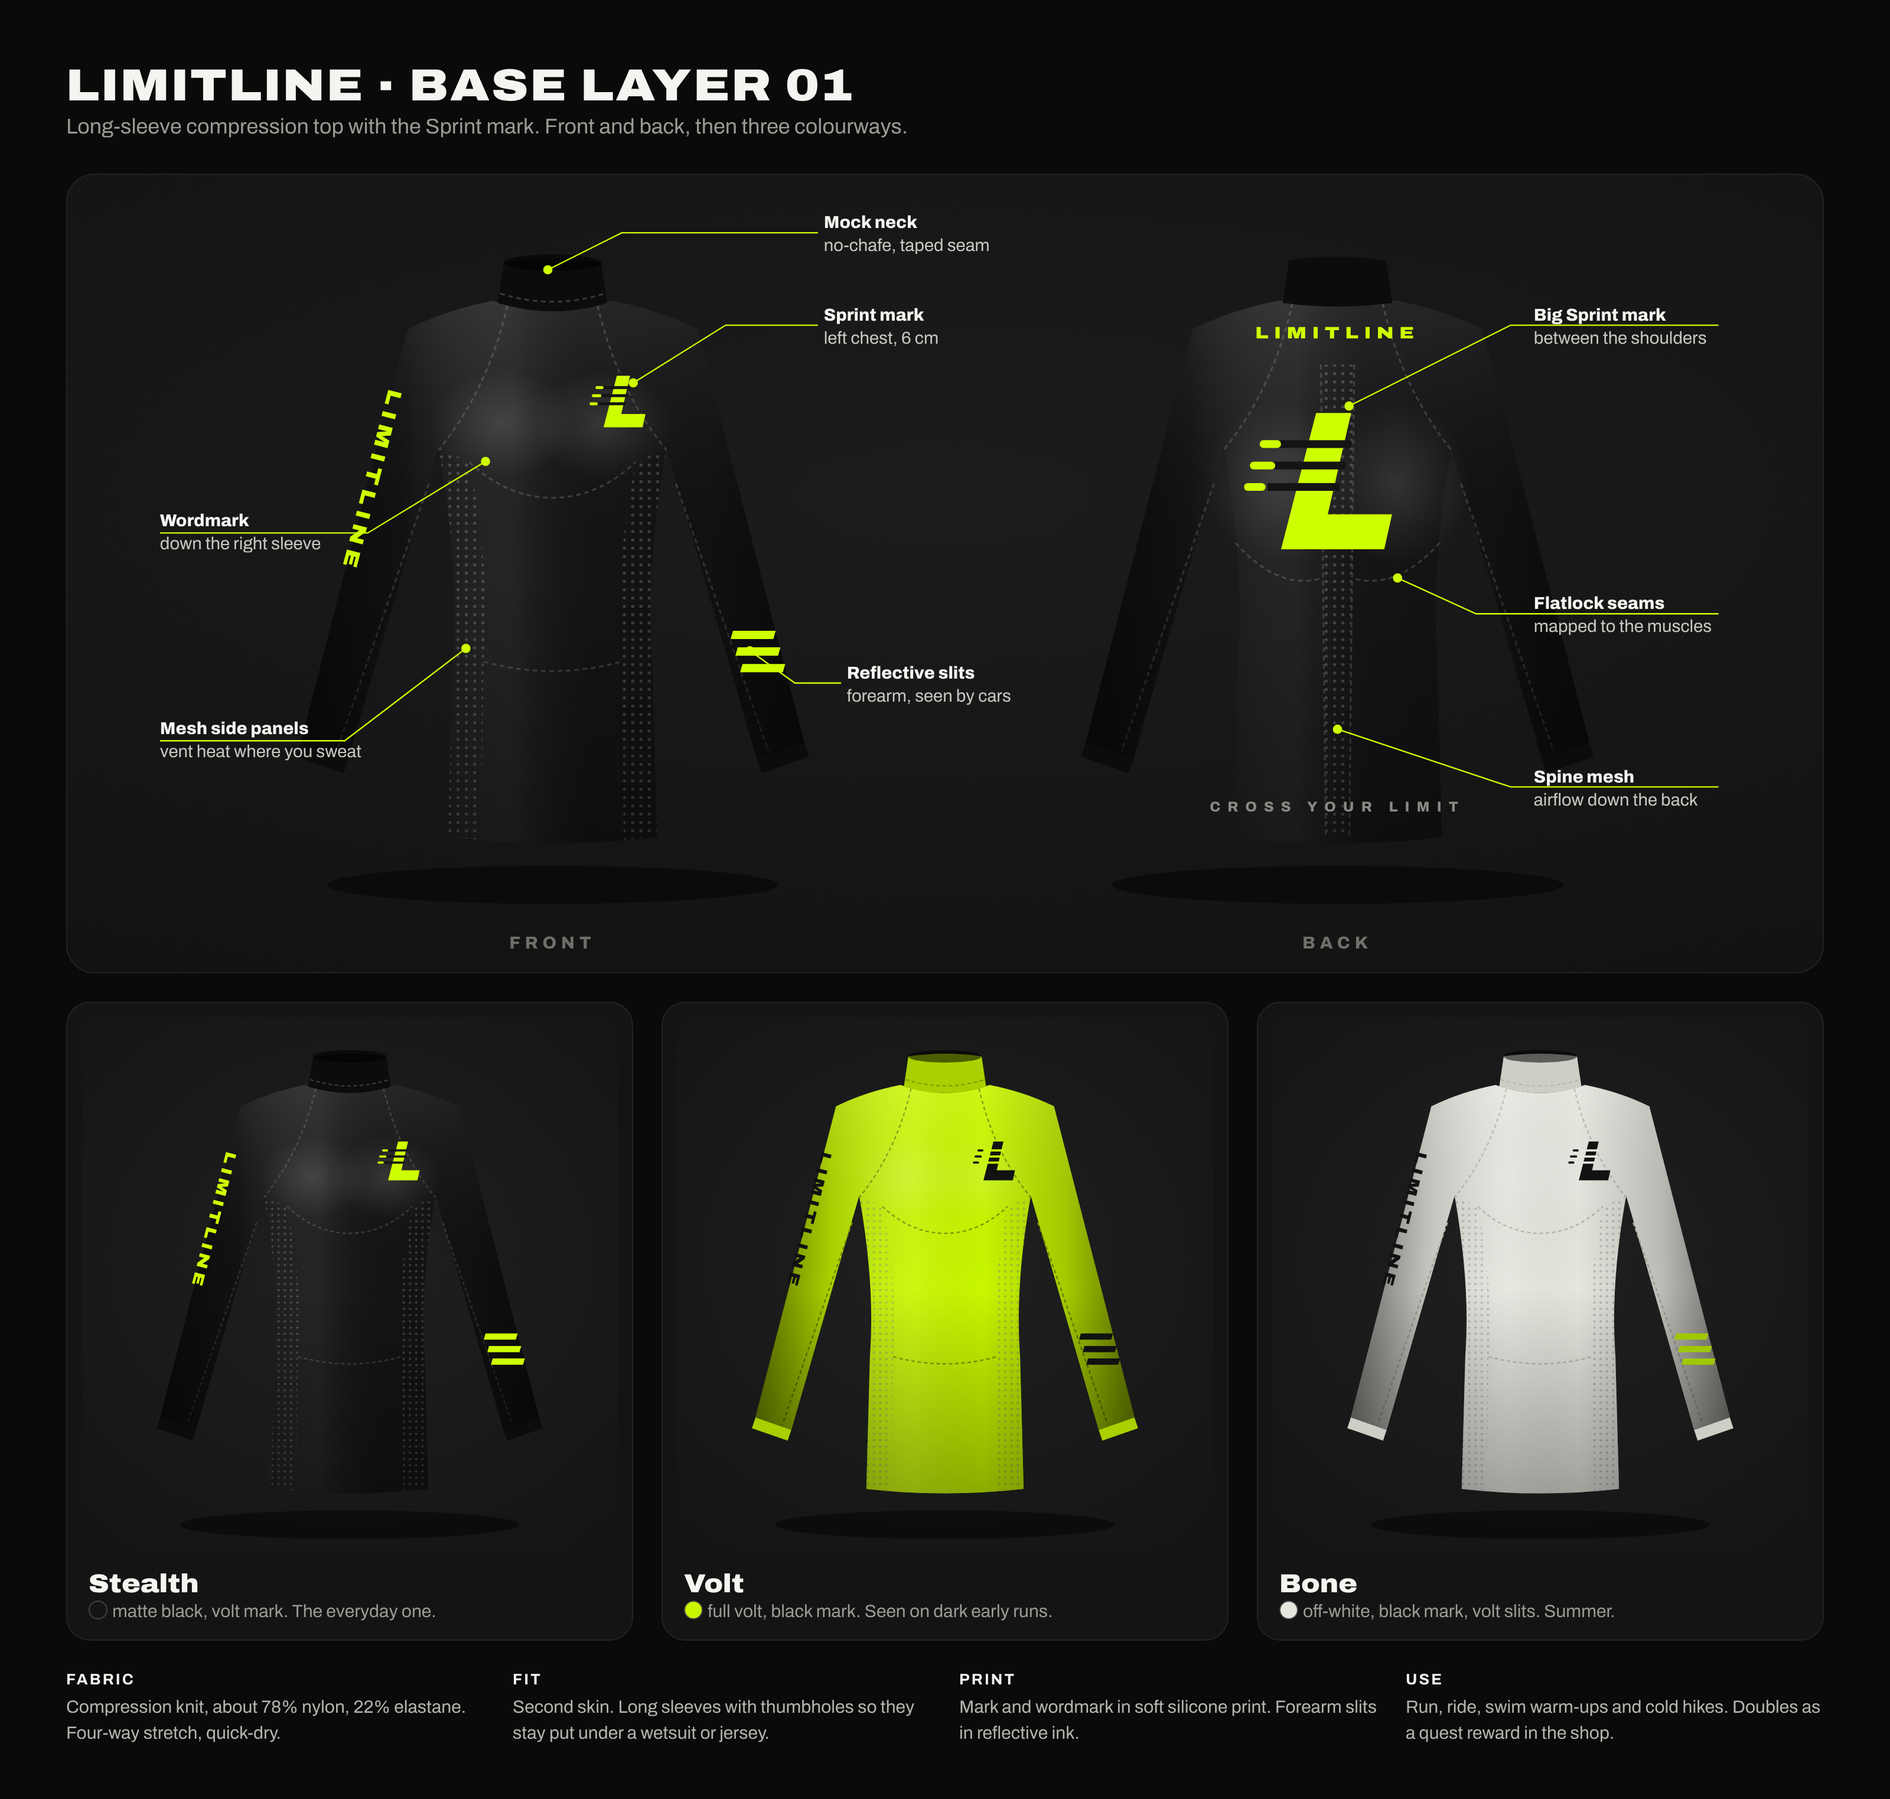
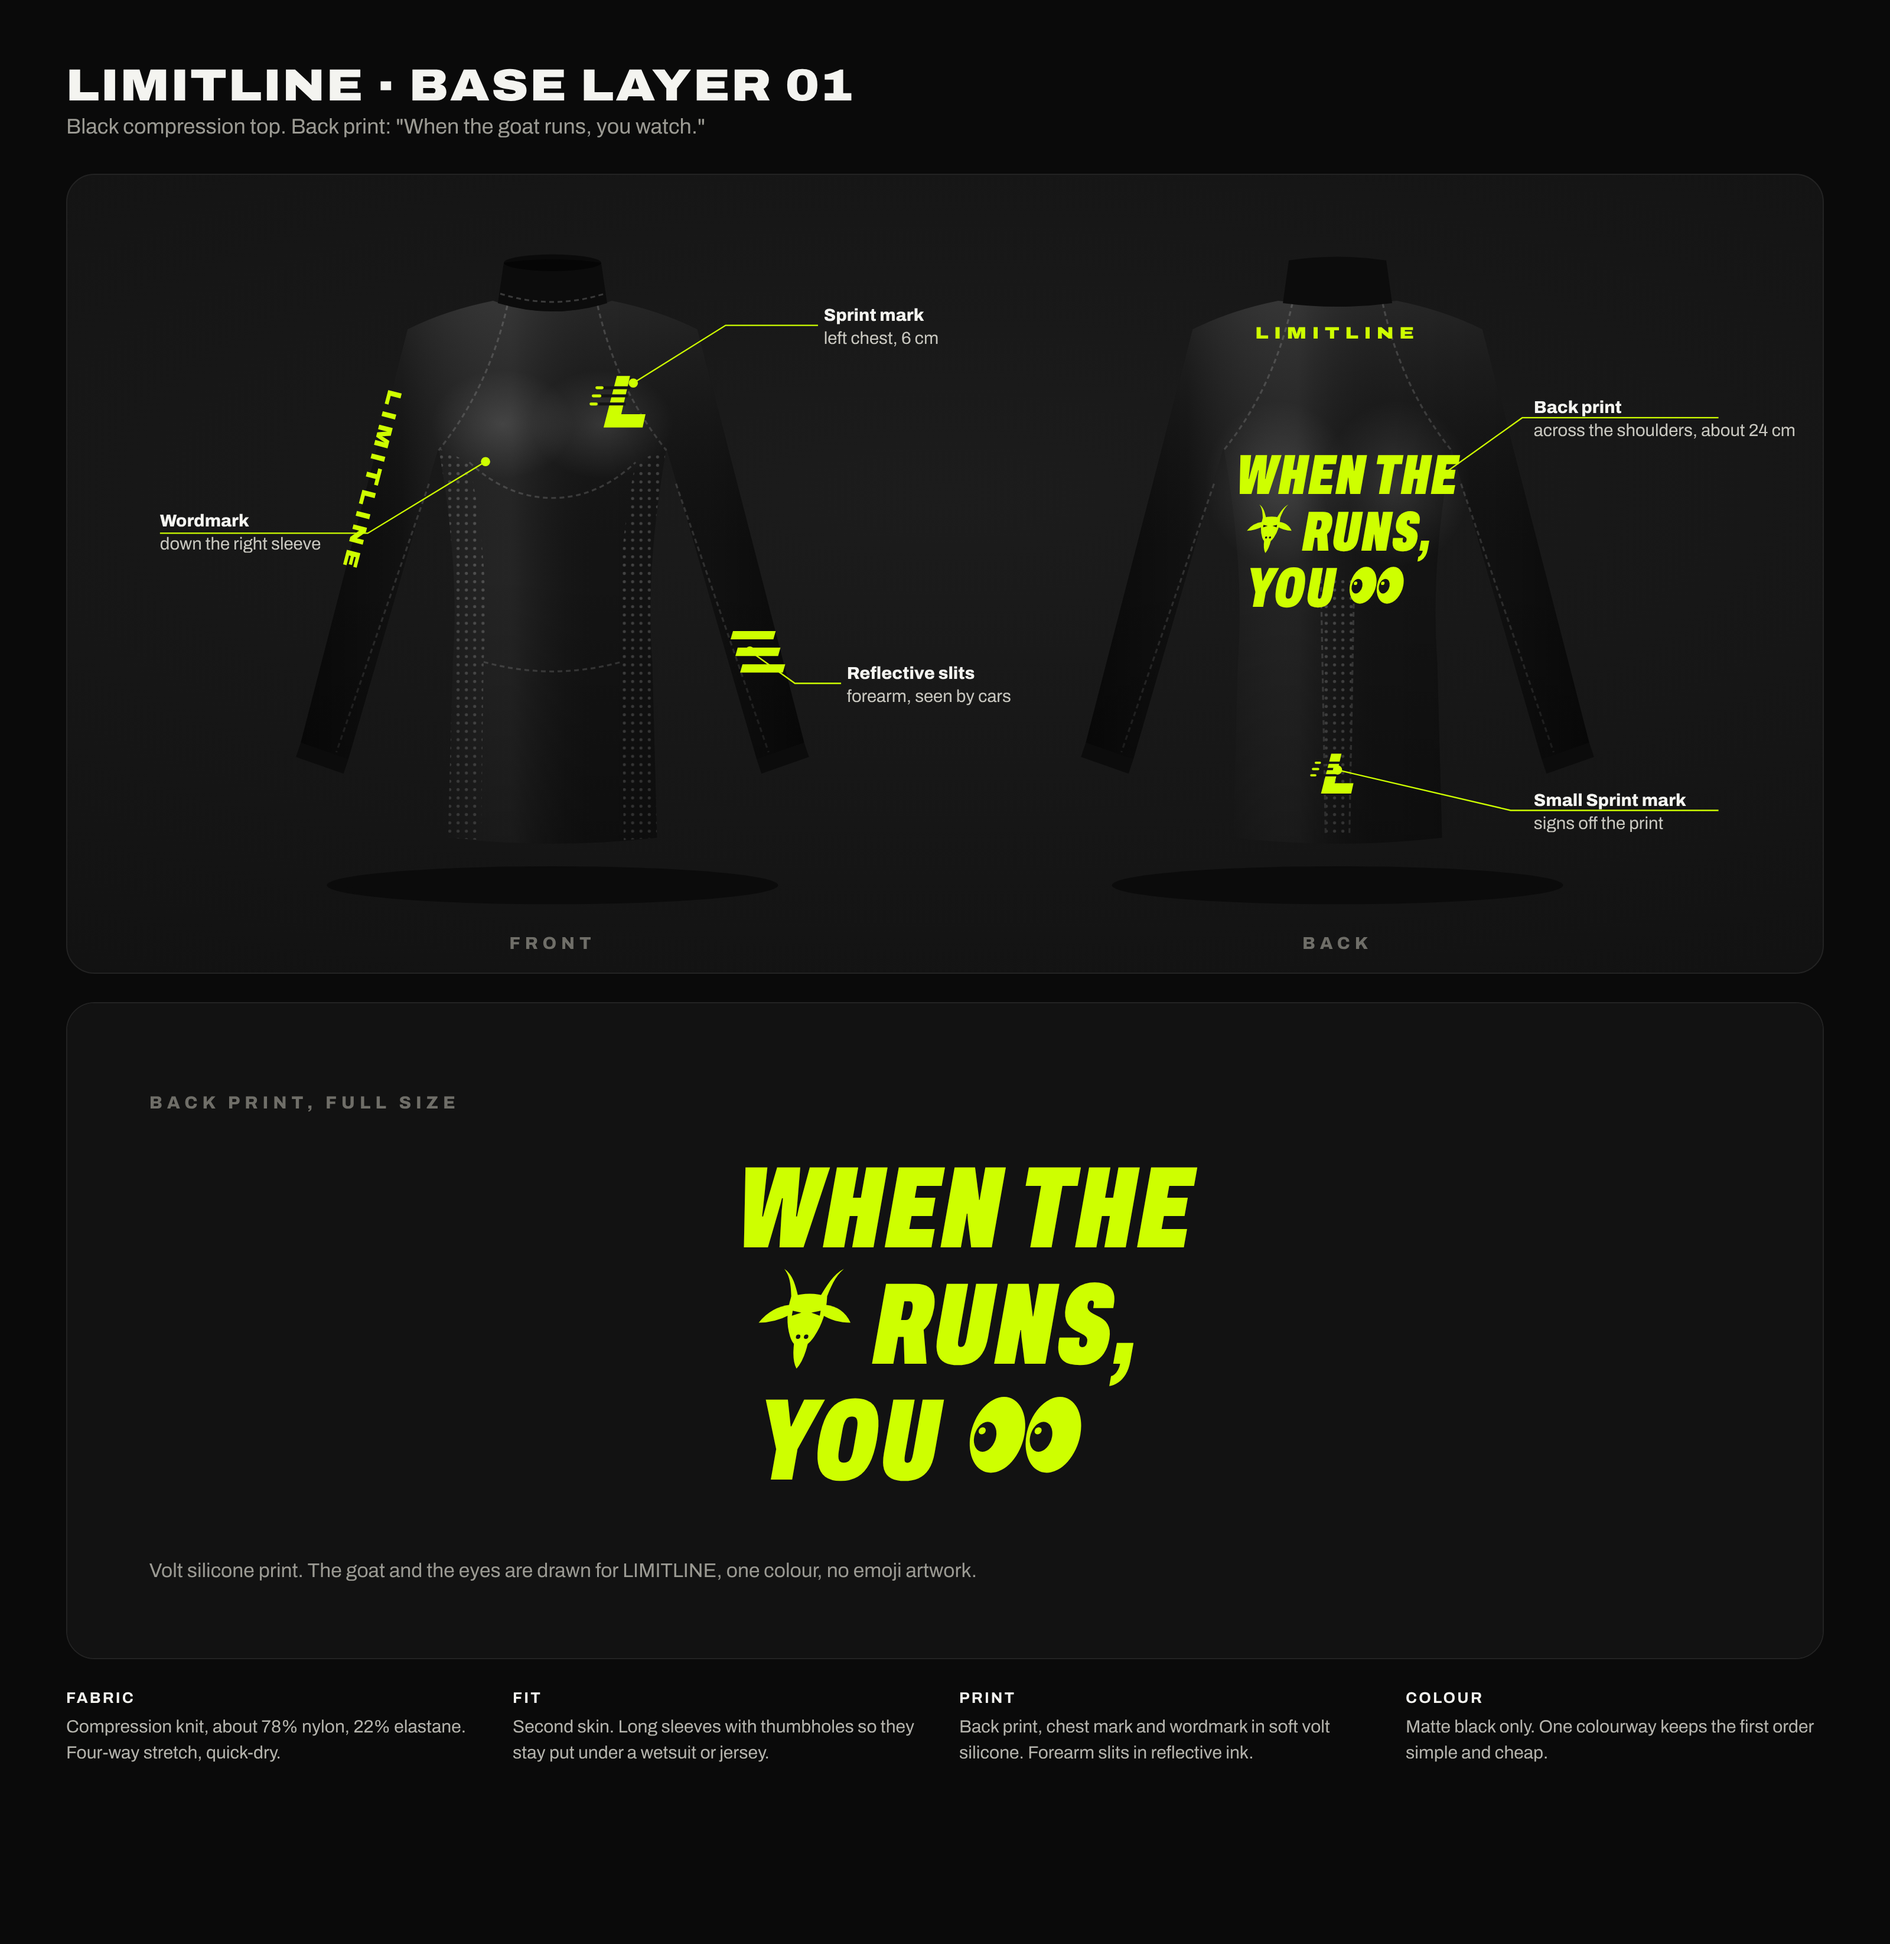
Base Layer 01: black only, with the goat back print
The top is now matte black only. The back reads "WHEN THE [goat] RUNS,
YOU [eyes]" in slanted condensed volt type, with a small Sprint mark
under it. The goat and the eyes are drawn for LIMITLINE as one-colour
icons, not emoji artwork, so they can be printed and sold.

Claude-Session: https://claude.ai/code/session_01BXru34w1oLkypgVg3jt9hC

diff --git a/marketing/merch/base-layer-01.html b/marketing/merch/base-layer-01.html
@@ -19,6 +19,7 @@ h1{font-weight:900;font-stretch:115%;letter-spacing:.04em;font-size:38px;margin:
 .stealth{--body:#141414;--seam:#3a3a3a;--logo:#ceff00;--accent:#ceff00;--collar:#0c0c0c;--txt:#8a8a84}
 .volt{--body:#c8f700;--seam:#7f9c00;--logo:#121212;--accent:#121212;--collar:#a9d000;--txt:#3d4a00}
 .bone{--body:#e6e5de;--seam:#b9b8b0;--logo:#121212;--accent:#9fc800;--collar:#cfcec6;--txt:#6f6e68}
+.detail{margin-top:24px;border:1px solid #232323;border-radius:24px;overflow:hidden}.detail svg{display:block;width:100%}
 </style></head><body>
 <svg width="0" height="0" style="position:absolute"><defs>
  <!-- the Sprint mark (200 box); slits take the fabric colour -->
@@ -71,32 +72,50 @@ h1{font-weight:900;font-stretch:115%;letter-spacing:.04em;font-size:38px;margin:
   <text transform="translate(162,170) rotate(104.5)" fill="var(--logo)" font-family="Archivo" font-weight="900" font-size="17" letter-spacing="5" style="font-stretch:125%">LIMITLINE</text>
  </symbol>
 
+ 
+ <!-- goat: front-facing head, swept horns, beard. One colour; eyes and nostrils cut out in the fabric colour -->
+ <symbol id="goat" viewBox="0 0 100 100">
+  <!-- horns rise and sweep back, ears droop, long face, goatee -->
+  <path fill="var(--logo)" d="M40,30 C34,16 30,6 20,0 C28,8 30,18 33,32 Z"/>
+  <path fill="var(--logo)" d="M60,30 C66,16 70,6 80,0 C72,8 70,18 67,32 Z"/>
+  <g fill="var(--logo)">
+   <path d="M33,36 Q14,38 4,54 Q20,54 34,46 Z"/><path d="M67,36 Q86,38 96,54 Q80,54 66,46 Z"/>
+   <path d="M32,28 Q50,22 68,28 Q71,50 62,68 Q57,78 50,78 Q43,78 38,68 Q29,50 32,28 Z"/>
+   <path d="M43,74 Q44,92 50,100 Q56,92 57,74 Z"/>
+  </g>
+  <g fill="var(--body)"><path d="M36,42 L45,44 L36,47 Z"/><path d="M64,42 L55,44 L64,47 Z"/><circle cx="46" cy="68" r="2.2"/><circle cx="54" cy="68" r="2.2"/></g>
+ </symbol>
+ <!-- eyes: two eyes glancing sideways -->
+ <symbol id="eyes" viewBox="0 0 120 100">
+  <g fill="var(--logo)"><ellipse cx="32" cy="50" rx="27" ry="38"/><ellipse cx="88" cy="50" rx="27" ry="38"/></g>
+  <g fill="var(--body)"><ellipse cx="20" cy="52" rx="11" ry="15"/><ellipse cx="76" cy="52" rx="11" ry="15"/></g>
+  <g fill="var(--logo)"><circle cx="16" cy="46" r="3.5"/><circle cx="72" cy="46" r="3.5"/></g>
+ </symbol>
+ <!-- the back print, laid out by the script below so the icons sit inline with the words -->
+ <symbol id="print" viewBox="0 0 300 300" overflow="visible"><g id="printg"></g></symbol>
+
  <!-- BACK -->
  <symbol id="back" viewBox="0 0 600 700">
   <ellipse cx="300" cy="588" rx="190" ry="16" fill="#000" opacity=".45"/>
   <use href="#bbody" fill="var(--body)"/>
-  <!-- spine mesh panel -->
-  <path d="M286,150 L314,150 L310,546 L290,546 Z" fill="url(#mesh)"/>
+  <path d="M286,330 L314,330 L310,546 L290,546 Z" fill="url(#mesh)"/>
   <g fill="none" stroke="var(--seam)" stroke-width="1.6" stroke-dasharray="4 3">
    <path d="M262,98 Q246,170 204,222"/><path d="M338,98 Q354,170 396,222"/>
-   <path d="M286,150 L290,546"/><path d="M314,150 L310,546"/>
-   <path d="M214,300 Q250,340 286,330"/><path d="M386,300 Q350,340 314,330"/>
+   <path d="M286,330 L290,546"/><path d="M314,330 L310,546"/>
    <path d="M196,250 L118,476"/><path d="M404,250 L482,476"/>
   </g>
   <ellipse cx="250" cy="250" rx="62" ry="70" fill="url(#pec)"/><ellipse cx="350" cy="250" rx="62" ry="70" fill="url(#pec)"/>
   <use href="#bbody" fill="url(#shadeH)"/><use href="#bbody" fill="url(#shadeV)"/>
   <path d="M254,98 L259,62 Q300,56 341,62 L346,98 Q300,104 254,98 Z" fill="var(--collar)"/>
-  <!-- small wordmark under the collar, big mark between the shoulders, motto at the hem -->
   <text x="300" y="128" text-anchor="middle" fill="var(--logo)" font-family="Archivo" font-weight="900" font-size="14" letter-spacing="5" style="font-stretch:125%">LIMITLINE</text>
-  <use href="#sprint" x="218" y="166" width="164" height="164"/>
-  <text x="300" y="526" text-anchor="middle" fill="var(--txt)" font-family="Archivo" font-weight="800" font-size="12" letter-spacing="6">CROSS YOUR LIMIT</text>
+  <use href="#print" x="185" y="178" width="230" height="230"/>
+  <use href="#sprint" x="276" y="470" width="48" height="48"/>
   <path d="M88,468 L128,482 L124,494 L84,480 Z" fill="var(--collar)"/><path d="M512,468 L472,482 L476,494 L516,480 Z" fill="var(--collar)"/>
  </symbol>
 </defs></svg>
 
 <h1>LIMITLINE · BASE LAYER 01</h1>
-<p class="sub">Long-sleeve compression top with the Sprint mark. Front and back, then three colourways.</p>
-
+<p class="sub">Black compression top. Back print: "When the goat runs, you watch."</p>
 <div class="hero stealth">
 <svg viewBox="0 0 1500 680">
  <use href="#front" x="100" y="0" width="620" height="720"/>
@@ -104,38 +123,55 @@ h1{font-weight:900;font-stretch:115%;letter-spacing:.04em;font-size:38px;margin:
  <g font-family="Archivo" font-size="15" fill="#c9c8c0">
   <text x="410" y="660" text-anchor="middle" font-weight="800" letter-spacing="4" fill="#6f6e68">FRONT</text>
   <text x="1090" y="660" text-anchor="middle" font-weight="800" letter-spacing="4" fill="#6f6e68">BACK</text>
-  <!-- callouts -->
-  <g stroke="#ceff00" stroke-width="1.2" fill="none">
-   <path d="M480,170 L560,120 H640"/><path d="M406,72 L470,40 H640"/><path d="M581,402 L620,430 H660"/>
-   <path d="M352,238 L250,300 H70"/><path d="M335,400 L230,480 H70"/>
-   <path d="M1100,190 L1240,120 H1420"/><path d="M1090,470 L1240,520 H1420"/><path d="M1142,339 L1210,370 H1420"/>
-  </g>
-  <g fill="#ceff00"><circle cx="480" cy="170" r="4"/><circle cx="406" cy="72" r="4"/><circle cx="581" cy="402" r="4"/><circle cx="352" cy="238" r="4"/><circle cx="335" cy="400" r="4"/><circle cx="1100" cy="190" r="4"/><circle cx="1090" cy="470" r="4"/><circle cx="1142" cy="339" r="4"/></g>
+  <g stroke="#ceff00" stroke-width="1.2" fill="none"><path d="M480,170 L560,120 H640"/><path d="M581,402 L620,430 H660"/><path d="M352,238 L250,300 H70"/><path d="M1180,250 L1250,200 H1420"/><path d="M1090,505 L1240,540 H1420"/></g>
+  <g fill="#ceff00"><circle cx="480" cy="170" r="4"/><circle cx="581" cy="402" r="4"/><circle cx="352" cy="238" r="4"/><circle cx="1180" cy="250" r="4"/><circle cx="1090" cy="505" r="4"/></g>
   <text x="645" y="116" font-weight="800" fill="#f4f4f0">Sprint mark</text><text x="645" y="136">left chest, 6 cm</text>
-  <text x="645" y="36" font-weight="800" fill="#f4f4f0">Mock neck</text><text x="645" y="56">no-chafe, taped seam</text>
   <text x="665" y="426" font-weight="800" fill="#f4f4f0">Reflective slits</text><text x="665" y="446">forearm, seen by cars</text>
   <text x="70" y="294" font-weight="800" fill="#f4f4f0">Wordmark</text><text x="70" y="314">down the right sleeve</text>
-  <text x="70" y="474" font-weight="800" fill="#f4f4f0">Mesh side panels</text><text x="70" y="494">vent heat where you sweat</text>
-  <text x="1260" y="116" font-weight="800" fill="#f4f4f0">Big Sprint mark</text><text x="1260" y="136">between the shoulders</text>
-  <text x="1260" y="516" font-weight="800" fill="#f4f4f0">Spine mesh</text><text x="1260" y="536">airflow down the back</text>
-    <text x="1260" y="366" font-weight="800" fill="#f4f4f0">Flatlock seams</text><text x="1260" y="386">mapped to the muscles</text>
+  <text x="1260" y="196" font-weight="800" fill="#f4f4f0">Back print</text><text x="1260" y="216">across the shoulders, about 24 cm</text>
+  <text x="1260" y="536" font-weight="800" fill="#f4f4f0">Small Sprint mark</text><text x="1260" y="556">signs off the print</text>
  </g>
 </svg>
 </div>
-
-<div class="row">
- <div class="cw stealth"><svg viewBox="0 20 600 600"><use href="#front" width="600" height="700"/></svg>
-  <h3>Stealth</h3><p><span class="sw" style="background:#141414"></span>matte black, volt mark. The everyday one.</p></div>
- <div class="cw volt"><svg viewBox="0 20 600 600"><use href="#front" width="600" height="700"/></svg>
-  <h3>Volt</h3><p><span class="sw" style="background:#c8f700"></span>full volt, black mark. Seen on dark early runs.</p></div>
- <div class="cw bone"><svg viewBox="0 20 600 600"><use href="#front" width="600" height="700"/></svg>
-  <h3>Bone</h3><p><span class="sw" style="background:#e6e5de"></span>off-white, black mark, volt slits. Summer.</p></div>
+<div class="detail stealth">
+ <svg viewBox="0 0 1500 560"><rect width="1500" height="560" fill="#121212"/>
+  <g transform="translate(510,40) scale(1.6)"><use href="#print" width="300" height="300"/></g>
+  <text x="70" y="90" font-family="Archivo" font-weight="800" font-size="15" letter-spacing="4" fill="#6f6e68">BACK PRINT, FULL SIZE</text>
+  <text x="70" y="490" font-family="Archivo" font-size="17" fill="#9b9a93">Volt silicone print. The goat and the eyes are drawn for LIMITLINE, one colour, no emoji artwork.</text>
+ </svg>
 </div>
-
 <div class="spec">
  <div><b>FABRIC</b>Compression knit, about 78% nylon, 22% elastane. Four-way stretch, quick-dry.</div>
  <div><b>FIT</b>Second skin. Long sleeves with thumbholes so they stay put under a wetsuit or jersey.</div>
- <div><b>PRINT</b>Mark and wordmark in soft silicone print. Forearm slits in reflective ink.</div>
- <div><b>USE</b>Run, ride, swim warm-ups and cold hikes. Doubles as a quest reward in the shop.</div>
+ <div><b>PRINT</b>Back print, chest mark and wordmark in soft volt silicone. Forearm slits in reflective ink.</div>
+ <div><b>COLOUR</b>Matte black only. One colourway keeps the first order simple and cheap.</div>
 </div>
+<script>
+// Lay out the back print: three lines of condensed type with the goat and eyes inline.
+document.fonts.ready.then(() => {
+  const NS = "http://www.w3.org/2000/svg", g = document.getElementById("printg");
+  const S = 62, LH = S * 1.0, CX = 150;
+  const lines = [["WHEN THE"], ["#goat", " RUNS,"], ["YOU ", "#eyes"]];
+  const meas = document.createElementNS(NS, "svg"); meas.style.position = "absolute"; document.body.appendChild(meas);
+  const mk = (txt) => { const t = document.createElementNS(NS, "text"); t.textContent = txt;
+    t.setAttribute("font-family", "Archivo"); t.setAttribute("font-weight", "900"); t.setAttribute("font-size", S);
+    t.setAttribute("style", "font-stretch:62.5%;white-space:pre"); t.setAttribute("fill", "var(--logo)"); t.setAttribute("letter-spacing", "1"); return t; };
+  const iconW = { "#goat": S * 0.95, "#eyes": S * 1.15 };
+  const top = 150 - (lines.length * LH) / 2 + S * 0.78;
+  const grp = document.createElementNS(NS, "g"); grp.setAttribute("transform", `translate(${CX},150) skewX(-10) translate(${-CX},-150)`);
+  lines.forEach((ln, i) => {
+    const base = top + i * LH;
+    const parts = ln.map((p) => { if (p.startsWith("#")) return { icon: p, w: iconW[p] }; const t = mk(p); meas.appendChild(t); const w = t.getComputedTextLength(); meas.removeChild(t); return { text: p, w }; });
+    let x = CX - parts.reduce((a, p) => a + p.w, 0) / 2;
+    for (const p of parts) {
+      if (p.icon) { const u = document.createElementNS(NS, "use"); u.setAttribute("href", p.icon);
+        const h = S * 0.86; u.setAttribute("x", x); u.setAttribute("y", base - h * 0.95); u.setAttribute("width", p.w); u.setAttribute("height", h); grp.appendChild(u); }
+      else { const t = mk(p.text); t.setAttribute("x", x); t.setAttribute("y", base); grp.appendChild(t); }
+      x += p.w;
+    }
+  });
+  g.appendChild(grp);
+  document.body.dataset.ready = "1";
+});
+</script>
 </body></html>
